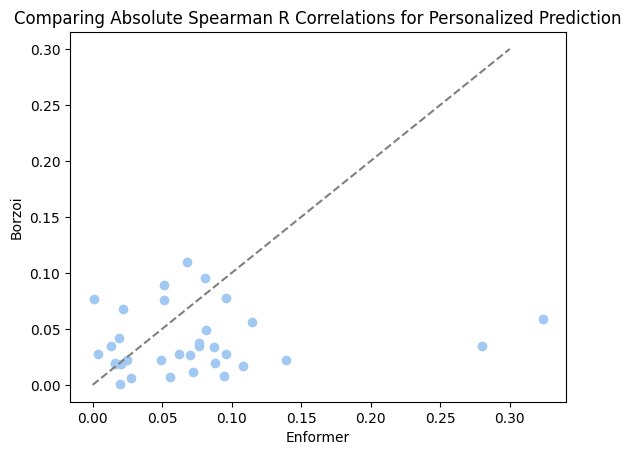
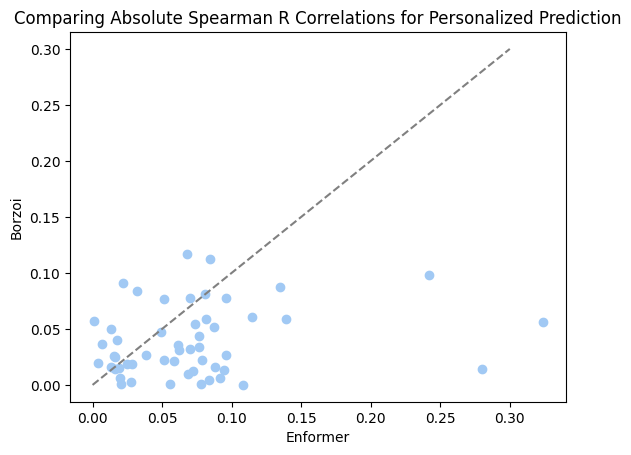
render

diff --git a/docs/posts/2023-11-01-borzoi-performance-analysis/index.html b/docs/posts/2023-11-01-borzoi-performance-analysis/index.html
@@ -1100,7 +1100,7 @@ pre > code.sourceCode > span > a:first-child::before { text-decoration: underlin
 <h1>Sabrina’s Analysis</h1>
 <section id="collecting-results" class="level2">
 <h2 class="anchored" data-anchor-id="collecting-results">Collecting Results</h2>
-<div class="cell" data-execution_count="4">
+<div class="cell" data-execution_count="1">
 <details>
 <summary>Code</summary>
 <div class="sourceCode cell-code" id="cb29"><pre class="sourceCode python code-with-copy"><code class="sourceCode python"><span id="cb29-1"><a href="#cb29-1" aria-hidden="true" tabindex="-1"></a><span class="im">import</span> pandas <span class="im">as</span> pd</span>
@@ -1124,7 +1124,7 @@ pre > code.sourceCode > span > a:first-child::before { text-decoration: underlin
 <span id="cb29-19"><a href="#cb29-19" aria-hidden="true" tabindex="-1"></a><span class="co">#     intervals.extend(f.read().splitlines()[:5]) # test on first few genes</span></span></code><button title="Copy to Clipboard" class="code-copy-button"><i class="bi"></i></button></pre></div>
 </details>
 </div>
-<div class="cell" data-execution_count="5">
+<div class="cell" data-execution_count="2">
 <details>
 <summary>Code</summary>
 <div class="sourceCode cell-code" id="cb30"><pre class="sourceCode python code-with-copy"><code class="sourceCode python"><span id="cb30-1"><a href="#cb30-1" aria-hidden="true" tabindex="-1"></a>gene_list <span class="op">=</span> []</span>
@@ -1136,7 +1136,7 @@ pre > code.sourceCode > span > a:first-child::before { text-decoration: underlin
 <span id="cb30-7"><a href="#cb30-7" aria-hidden="true" tabindex="-1"></a>    gene_list.append(gene.item())</span></code><button title="Copy to Clipboard" class="code-copy-button"><i class="bi"></i></button></pre></div>
 </details>
 </div>
-<div class="cell">
+<div class="cell" data-execution_count="3">
 <details>
 <summary>Code</summary>
 <div class="sourceCode cell-code" id="cb31"><pre class="sourceCode python code-with-copy"><code class="sourceCode python"><span id="cb31-1"><a href="#cb31-1" aria-hidden="true" tabindex="-1"></a>CAGE_dict <span class="op">=</span> {gene: [] <span class="cf">for</span> gene <span class="kw">in</span> gene_list}</span>
@@ -1146,17 +1146,15 @@ pre > code.sourceCode > span > a:first-child::before { text-decoration: underlin
 <span id="cb31-5"><a href="#cb31-5" aria-hidden="true" tabindex="-1"></a>        predictions_file <span class="op">=</span> os.path.join(predictions_dir, individual, <span class="ss">f'</span><span class="sc">{</span>interval<span class="sc">}</span><span class="ss">_predictions.h5'</span>)</span>
 <span id="cb31-6"><a href="#cb31-6" aria-hidden="true" tabindex="-1"></a>        <span class="cf">if</span> os.path.exists(predictions_file):</span>
 <span id="cb31-7"><a href="#cb31-7" aria-hidden="true" tabindex="-1"></a>            <span class="cf">with</span> h5py.File(predictions_file, <span class="st">"r"</span>) <span class="im">as</span> hf:</span>
-<span id="cb31-8"><a href="#cb31-8" aria-hidden="true" tabindex="-1"></a>                <span class="bu">print</span>(hf[<span class="st">'haplotype1'</span>][:].shape)</span>
-<span id="cb31-9"><a href="#cb31-9" aria-hidden="true" tabindex="-1"></a>                haplo1 <span class="op">=</span> np.mean(hf[<span class="st">'haplotype1'</span>][:, <span class="dv">1</span>:<span class="dv">9</span>, :])</span>
-<span id="cb31-10"><a href="#cb31-10" aria-hidden="true" tabindex="-1"></a>                haplo2 <span class="op">=</span> np.mean(hf[<span class="st">'haplotype2'</span>][:, <span class="dv">1</span>:<span class="dv">9</span>, :])</span>
-<span id="cb31-11"><a href="#cb31-11" aria-hidden="true" tabindex="-1"></a>                <span class="cf">break</span></span>
-<span id="cb31-12"><a href="#cb31-12" aria-hidden="true" tabindex="-1"></a>                prediction <span class="op">=</span> (haplo1 <span class="op">+</span> haplo2)<span class="op">/</span><span class="dv">2</span></span>
-<span id="cb31-13"><a href="#cb31-13" aria-hidden="true" tabindex="-1"></a>            CAGE_dict[gene].append(prediction)</span>
-<span id="cb31-14"><a href="#cb31-14" aria-hidden="true" tabindex="-1"></a>        <span class="cf">else</span>:</span>
-<span id="cb31-15"><a href="#cb31-15" aria-hidden="true" tabindex="-1"></a>            CAGE_dict[gene].append(np.nan)</span></code><button title="Copy to Clipboard" class="code-copy-button"><i class="bi"></i></button></pre></div>
+<span id="cb31-8"><a href="#cb31-8" aria-hidden="true" tabindex="-1"></a>                haplo1 <span class="op">=</span> np.mean(hf[<span class="st">'haplotype1'</span>][:, <span class="dv">1</span>:<span class="dv">9</span>, :])</span>
+<span id="cb31-9"><a href="#cb31-9" aria-hidden="true" tabindex="-1"></a>                haplo2 <span class="op">=</span> np.mean(hf[<span class="st">'haplotype2'</span>][:, <span class="dv">1</span>:<span class="dv">9</span>, :])</span>
+<span id="cb31-10"><a href="#cb31-10" aria-hidden="true" tabindex="-1"></a>                prediction <span class="op">=</span> (haplo1 <span class="op">+</span> haplo2)<span class="op">/</span><span class="dv">2</span></span>
+<span id="cb31-11"><a href="#cb31-11" aria-hidden="true" tabindex="-1"></a>            CAGE_dict[gene].append(prediction)</span>
+<span id="cb31-12"><a href="#cb31-12" aria-hidden="true" tabindex="-1"></a>        <span class="cf">else</span>:</span>
+<span id="cb31-13"><a href="#cb31-13" aria-hidden="true" tabindex="-1"></a>            CAGE_dict[gene].append(np.nan)</span></code><button title="Copy to Clipboard" class="code-copy-button"><i class="bi"></i></button></pre></div>
 </details>
 </div>
-<div class="cell">
+<div class="cell" data-execution_count="4">
 <details>
 <summary>Code</summary>
 <div class="sourceCode cell-code" id="cb32"><pre class="sourceCode python code-with-copy"><code class="sourceCode python"><span id="cb32-1"><a href="#cb32-1" aria-hidden="true" tabindex="-1"></a>geuvadis_gex <span class="op">=</span> pd.read_csv(<span class="st">"/lus/grand/projects/TFXcan/imlab/data/1000G/expression/GD462.GeneQuantRPKM.50FN.samplename.resk10.txt.gz"</span>, sep<span class="op">=</span><span class="st">"</span><span class="ch">\t</span><span class="st">"</span>)</span>
@@ -1164,7 +1162,7 @@ pre > code.sourceCode > span > a:first-child::before { text-decoration: underlin
 <span id="cb32-3"><a href="#cb32-3" aria-hidden="true" tabindex="-1"></a>geuvadis_gex.set_index(<span class="st">'TargetID'</span>, inplace<span class="op">=</span><span class="va">True</span>)</span></code><button title="Copy to Clipboard" class="code-copy-button"><i class="bi"></i></button></pre></div>
 </details>
 </div>
-<div class="cell" data-execution_count="23">
+<div class="cell" data-execution_count="5">
 <details>
 <summary>Code</summary>
 <div class="sourceCode cell-code" id="cb33"><pre class="sourceCode python code-with-copy"><code class="sourceCode python"><span id="cb33-1"><a href="#cb33-1" aria-hidden="true" tabindex="-1"></a>expr_dict <span class="op">=</span> {}</span>
@@ -1174,7 +1172,7 @@ pre > code.sourceCode > span > a:first-child::before { text-decoration: underlin
 <span id="cb33-5"><a href="#cb33-5" aria-hidden="true" tabindex="-1"></a>    expr_dict[gene] <span class="op">=</span> expr_df.dropna()</span></code><button title="Copy to Clipboard" class="code-copy-button"><i class="bi"></i></button></pre></div>
 </details>
 </div>
-<div class="cell" data-execution_count="24">
+<div class="cell" data-execution_count="6">
 <details>
 <summary>Code</summary>
 <div class="sourceCode cell-code" id="cb34"><pre class="sourceCode python code-with-copy"><code class="sourceCode python"><span id="cb34-1"><a href="#cb34-1" aria-hidden="true" tabindex="-1"></a>pearson_corr_by_gene <span class="op">=</span> pd.DataFrame(columns<span class="op">=</span>[<span class="st">"Pearson R"</span>, <span class="st">"P-value"</span>], index <span class="op">=</span> gene_list)</span>
@@ -1183,7 +1181,7 @@ pre > code.sourceCode > span > a:first-child::before { text-decoration: underlin
 <span id="cb34-4"><a href="#cb34-4" aria-hidden="true" tabindex="-1"></a>    pearson_corr_by_gene.loc[gene] <span class="op">=</span> [corr, pval]</span></code><button title="Copy to Clipboard" class="code-copy-button"><i class="bi"></i></button></pre></div>
 </details>
 </div>
-<div class="cell" data-execution_count="25">
+<div class="cell" data-execution_count="7">
 <details>
 <summary>Code</summary>
 <div class="sourceCode cell-code" id="cb35"><pre class="sourceCode python code-with-copy"><code class="sourceCode python"><span id="cb35-1"><a href="#cb35-1" aria-hidden="true" tabindex="-1"></a>spearman_corr_by_gene <span class="op">=</span> pd.DataFrame(columns<span class="op">=</span>[<span class="st">"Spearman R"</span>, <span class="st">"P-value"</span>], index <span class="op">=</span> gene_list)</span>
@@ -1194,8 +1192,8 @@ pre > code.sourceCode > span > a:first-child::before { text-decoration: underlin
 </div>
 <section id="borzois-best-performing-gene" class="level3">
 <h3 class="anchored" data-anchor-id="borzois-best-performing-gene">Borzoi’s Best Performing Gene</h3>
-<p><strong>(out of the first 30 randomly-sampled genes)</strong> ENSG00000137265 was the best performing gene (both for Spearman and Pearson R) for Borzoi’s personalized prediction.</p>
-<div class="cell" data-execution_count="28">
+<p><strong>(out of the first 47 randomly-sampled genes)</strong> ENSG00000137265 was the best performing gene (both for Spearman and Pearson R) for Borzoi’s personalized prediction.</p>
+<div class="cell" data-execution_count="8">
 <details>
 <summary>Code</summary>
 <div class="sourceCode cell-code" id="cb36"><pre class="sourceCode python code-with-copy"><code class="sourceCode python"><span id="cb36-1"><a href="#cb36-1" aria-hidden="true" tabindex="-1"></a>colors <span class="op">=</span> sns.color_palette(<span class="st">"pastel"</span>)</span>
@@ -1221,7 +1219,7 @@ pre > code.sourceCode > span > a:first-child::before { text-decoration: underlin
 </section>
 <section id="compare-correlations-to-enformer" class="level2">
 <h2 class="anchored" data-anchor-id="compare-correlations-to-enformer">Compare Correlations to Enformer</h2>
-<div class="cell" data-execution_count="30">
+<div class="cell" data-execution_count="10">
 <details>
 <summary>Code</summary>
 <div class="sourceCode cell-code" id="cb37"><pre class="sourceCode python code-with-copy"><code class="sourceCode python"><span id="cb37-1"><a href="#cb37-1" aria-hidden="true" tabindex="-1"></a>enformer_corr_df <span class="op">=</span> pd.read_csv(<span class="ss">f"</span><span class="sc">{</span>prefix<span class="sc">}</span><span class="ss">/enformer_geuvadis_correlations.csv"</span>).dropna()</span>
@@ -1232,19 +1230,19 @@ pre > code.sourceCode > span > a:first-child::before { text-decoration: underlin
 <span id="cb37-6"><a href="#cb37-6" aria-hidden="true" tabindex="-1"></a>    enformer_corr.append(corr.item())</span></code><button title="Copy to Clipboard" class="code-copy-button"><i class="bi"></i></button></pre></div>
 </details>
 </div>
-<div class="cell" data-execution_count="31">
+<div class="cell" data-execution_count="11">
 <details>
 <summary>Code</summary>
 <div class="sourceCode cell-code" id="cb38"><pre class="sourceCode python code-with-copy"><code class="sourceCode python"><span id="cb38-1"><a href="#cb38-1" aria-hidden="true" tabindex="-1"></a>spearman_corr_by_gene[<span class="st">"Enformer"</span>] <span class="op">=</span> enformer_corr</span>
 <span id="cb38-2"><a href="#cb38-2" aria-hidden="true" tabindex="-1"></a>spearman_corr_by_model <span class="op">=</span> spearman_corr_by_gene.rename(columns<span class="op">=</span>{<span class="st">"Spearman R"</span>: <span class="st">"Borzoi"</span>}).drop(columns<span class="op">=</span>[<span class="st">"P-value"</span>])</span></code><button title="Copy to Clipboard" class="code-copy-button"><i class="bi"></i></button></pre></div>
 </details>
 </div>
-<div class="cell" data-execution_count="36">
+<div class="cell" data-execution_count="12">
 <details>
 <summary>Code</summary>
 <div class="sourceCode cell-code" id="cb39"><pre class="sourceCode python code-with-copy"><code class="sourceCode python"><span id="cb39-1"><a href="#cb39-1" aria-hidden="true" tabindex="-1"></a>spearman_corr_by_model.head()</span></code><button title="Copy to Clipboard" class="code-copy-button"><i class="bi"></i></button></pre></div>
 </details>
-<div class="cell-output cell-output-display" data-execution_count="36">
+<div class="cell-output cell-output-display" data-execution_count="12">
 <div>
 
 
@@ -1258,29 +1256,29 @@ pre > code.sourceCode > span > a:first-child::before { text-decoration: underlin
 </thead>
 <tbody>
 <tr class="odd">
-<td data-quarto-table-cell-role="th">ENSG00000146386</td>
-<td>-0.095356</td>
-<td>-0.080603</td>
+<td data-quarto-table-cell-role="th">ENSG00000011638</td>
+<td>0.097914</td>
+<td>0.241614</td>
 </tr>
 <tr class="even">
-<td data-quarto-table-cell-role="th">ENSG00000133422</td>
-<td>0.035114</td>
-<td>-0.013208</td>
+<td data-quarto-table-cell-role="th">ENSG00000112031</td>
+<td>0.036816</td>
+<td>-0.007003</td>
 </tr>
 <tr class="odd">
-<td data-quarto-table-cell-role="th">ENSG00000188573</td>
-<td>0.037473</td>
-<td>0.076608</td>
+<td data-quarto-table-cell-role="th">ENSG00000172732</td>
+<td>0.022511</td>
+<td>0.078569</td>
 </tr>
 <tr class="even">
-<td data-quarto-table-cell-role="th">ENSG00000234444</td>
-<td>-0.076919</td>
-<td>0.001128</td>
+<td data-quarto-table-cell-role="th">ENSG00000173638</td>
+<td>0.112324</td>
+<td>-0.084114</td>
 </tr>
 <tr class="odd">
-<td data-quarto-table-cell-role="th">ENSG00000176058</td>
-<td>-0.005758</td>
-<td>-0.027832</td>
+<td data-quarto-table-cell-role="th">ENSG00000156535</td>
+<td>0.084083</td>
+<td>0.031968</td>
 </tr>
 </tbody>
 </table>
@@ -1288,7 +1286,7 @@ pre > code.sourceCode > span > a:first-child::before { text-decoration: underlin
 </div>
 </div>
 </div>
-<div class="cell" data-execution_count="33">
+<div class="cell" data-execution_count="13">
 <details>
 <summary>Code</summary>
 <div class="sourceCode cell-code" id="cb40"><pre class="sourceCode python code-with-copy"><code class="sourceCode python"><span id="cb40-1"><a href="#cb40-1" aria-hidden="true" tabindex="-1"></a>colors <span class="op">=</span> sns.color_palette(<span class="st">"pastel"</span>)</span>
@@ -1306,7 +1304,7 @@ pre > code.sourceCode > span > a:first-child::before { text-decoration: underlin
 <p><img src="index_files/figure-html/cell-41-output-1.png" class="img-fluid"></p>
 </div>
 </div>
-<div class="cell" data-execution_count="37">
+<div class="cell" data-execution_count="14">
 <details>
 <summary>Code</summary>
 <div class="sourceCode cell-code" id="cb41"><pre class="sourceCode python code-with-copy"><code class="sourceCode python"><span id="cb41-1"><a href="#cb41-1" aria-hidden="true" tabindex="-1"></a>colors <span class="op">=</span> sns.color_palette(<span class="st">"pastel"</span>)</span>
@@ -1327,7 +1325,7 @@ pre > code.sourceCode > span > a:first-child::before { text-decoration: underlin
 <section id="bin-sizing" class="level3">
 <h3 class="anchored" data-anchor-id="bin-sizing">Bin Sizing</h3>
 <p>We used a 4 bin window centered at the TSS for each CAGE computation, we want to see which bin width gives the best estimate.</p>
-<div class="cell" data-execution_count="38">
+<div class="cell" data-execution_count="15">
 <details>
 <summary>Code</summary>
 <div class="sourceCode cell-code" id="cb42"><pre class="sourceCode python code-with-copy"><code class="sourceCode python"><span id="cb42-1"><a href="#cb42-1" aria-hidden="true" tabindex="-1"></a>CAGE_dicts <span class="op">=</span> [{gene: [] <span class="cf">for</span> gene <span class="kw">in</span> gene_list} <span class="cf">for</span> i <span class="kw">in</span> <span class="bu">range</span>(<span class="dv">5</span>)]</span>
@@ -1347,7 +1345,7 @@ pre > code.sourceCode > span > a:first-child::before { text-decoration: underlin
 <span id="cb42-15"><a href="#cb42-15" aria-hidden="true" tabindex="-1"></a>                CAGE_dicts[i][gene].append(np.nan)</span></code><button title="Copy to Clipboard" class="code-copy-button"><i class="bi"></i></button></pre></div>
 </details>
 </div>
-<div class="cell" data-execution_count="40">
+<div class="cell">
 <details>
 <summary>Code</summary>
 <div class="sourceCode cell-code" id="cb43"><pre class="sourceCode python code-with-copy"><code class="sourceCode python"><span id="cb43-1"><a href="#cb43-1" aria-hidden="true" tabindex="-1"></a>spearman_corr_by_bin_size <span class="op">=</span> pd.DataFrame({<span class="st">"Enformer"</span>: enformer_corr}, index<span class="op">=</span>gene_list)</span>
@@ -1361,7 +1359,7 @@ pre > code.sourceCode > span > a:first-child::before { text-decoration: underlin
 <span id="cb43-9"><a href="#cb43-9" aria-hidden="true" tabindex="-1"></a>    spearman_corr_by_bin_size[<span class="ss">f'Borzoi, </span><span class="sc">{</span><span class="dv">2</span><span class="op">*</span>(i<span class="op">+</span><span class="dv">1</span>)<span class="sc">}</span><span class="ss"> bins'</span>] <span class="op">=</span> results</span></code><button title="Copy to Clipboard" class="code-copy-button"><i class="bi"></i></button></pre></div>
 </details>
 </div>
-<div class="cell" data-execution_count="41">
+<div class="cell">
 <details>
 <summary>Code</summary>
 <div class="sourceCode cell-code" id="cb44"><pre class="sourceCode python code-with-copy"><code class="sourceCode python"><span id="cb44-1"><a href="#cb44-1" aria-hidden="true" tabindex="-1"></a><span class="kw">def</span> histogram(x, title):</span>
@@ -1377,7 +1375,7 @@ pre > code.sourceCode > span > a:first-child::before { text-decoration: underlin
 <span id="cb44-11"><a href="#cb44-11" aria-hidden="true" tabindex="-1"></a>    plt.show()</span></code><button title="Copy to Clipboard" class="code-copy-button"><i class="bi"></i></button></pre></div>
 </details>
 </div>
-<div class="cell" data-execution_count="44">
+<div class="cell">
 <details>
 <summary>Code</summary>
 <div class="sourceCode cell-code" id="cb45"><pre class="sourceCode python code-with-copy"><code class="sourceCode python"><span id="cb45-1"><a href="#cb45-1" aria-hidden="true" tabindex="-1"></a><span class="cf">for</span> column <span class="kw">in</span> spearman_corr_by_bin_size:</span>

diff --git a/docs/index.html b/docs/index.html
@@ -171,9 +171,9 @@ ul.task-list li input[type="checkbox"] {
 
 <div class="quarto-listing quarto-listing-container-default" id="listing-listing">
 <div class="list quarto-listing-default">
-<div class="quarto-post image-right" data-index="0" data-listing-file-modified-sort="1699397911164" data-listing-reading-time-sort="1">
+<div class="quarto-post image-right" data-index="0" data-listing-file-modified-sort="1699506567484" data-listing-reading-time-sort="1">
 <div class="thumbnail">
-<p><a href="./posts/borzoi-tests-overview/index.html"> <p class="card-img-top"><img src="posts/borzoi-tests-overview/borzoi_enformer_scatter.png"  class="thumbnail-image card-img"/></p> </a></p>
+<p><a href="./posts/borzoi-tests-overview/index.html"> <div class="listing-item-img-placeholder card-img-top" >&nbsp;</div> </a></p>
 </div>
 <div class="body">
 <a href="./posts/borzoi-tests-overview/index.html">
@@ -269,7 +269,7 @@ Sabrina Mi
 </a>
 </div>
 </div>
-<div class="quarto-post image-right" data-index="4" data-categories="analysis,report" data-listing-date-sort="1698217200000" data-listing-file-modified-sort="1698938968626" data-listing-date-modified-sort="NaN" data-listing-reading-time-sort="2">
+<div class="quarto-post image-right" data-index="4" data-categories="analysis,report" data-listing-date-sort="1698217200000" data-listing-file-modified-sort="1699506406329" data-listing-date-modified-sort="NaN" data-listing-reading-time-sort="2">
 <div class="thumbnail">
 <p><a href="./posts/2023-11-01-borzoi-performance-analysis/index.html"> <p class="card-img-top"><img src="posts/2023-11-01-borzoi-performance-analysis/index_files/figure-html/cell-11-output-1.png"  class="thumbnail-image card-img"/></p> </a></p>
 </div>

diff --git a/docs/posts/borzoi-tests-overview/index.html b/docs/posts/borzoi-tests-overview/index.html
@@ -150,12 +150,7 @@ ul.task-list li input[type="checkbox"] {
 <ul>
 <li>Borzoi’s CAGE tracks for LCL are worse than Enformer’s at predicting expression</li>
 </ul>
-<div class="quarto-figure quarto-figure-center">
-<figure class="figure">
-<p><img src="borzoi_enformer_scatter.png" class="img-fluid figure-img"></p>
-<figcaption class="figure-caption">borzoi vs enformer on GEUVADIS LCL tissue</figcaption>
-</figure>
-</div>
+<p><a href="">Sofia and Sabrina’s combined analysis</a></p>
 
 
 </section>
